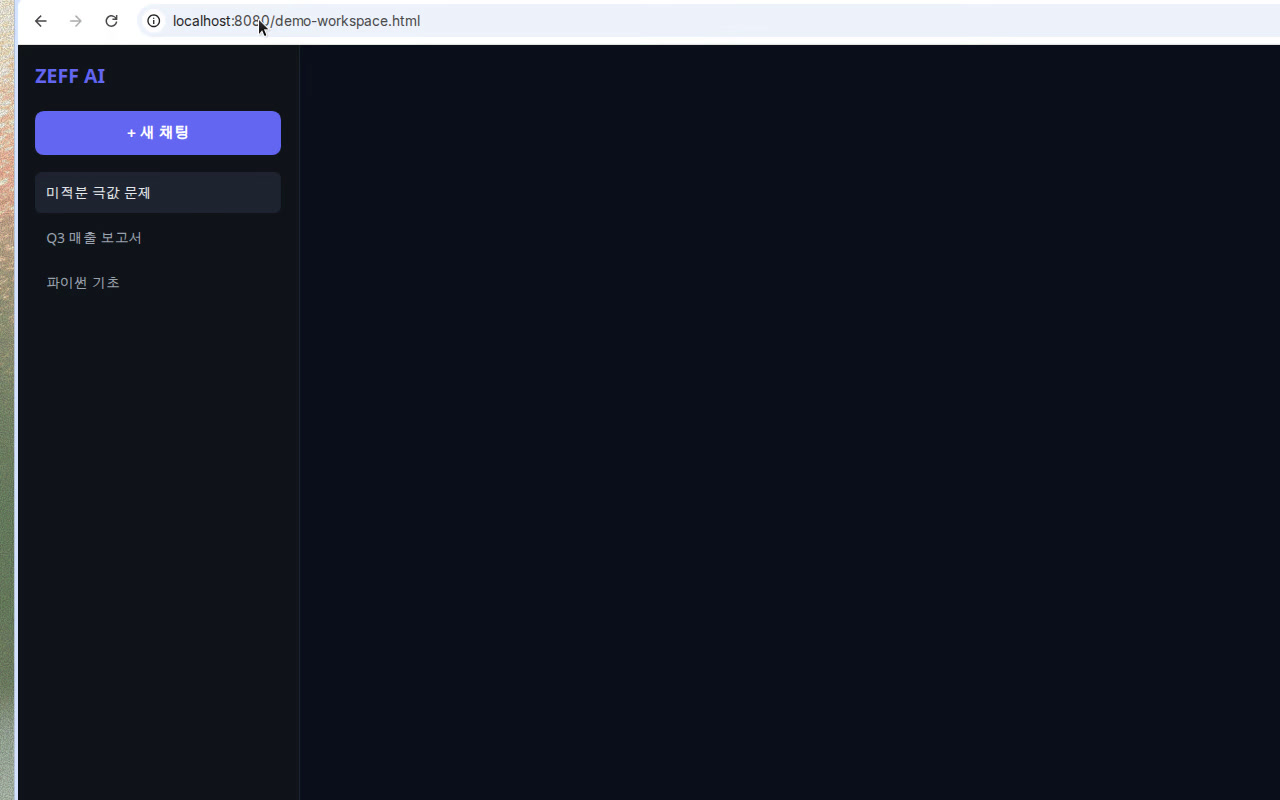
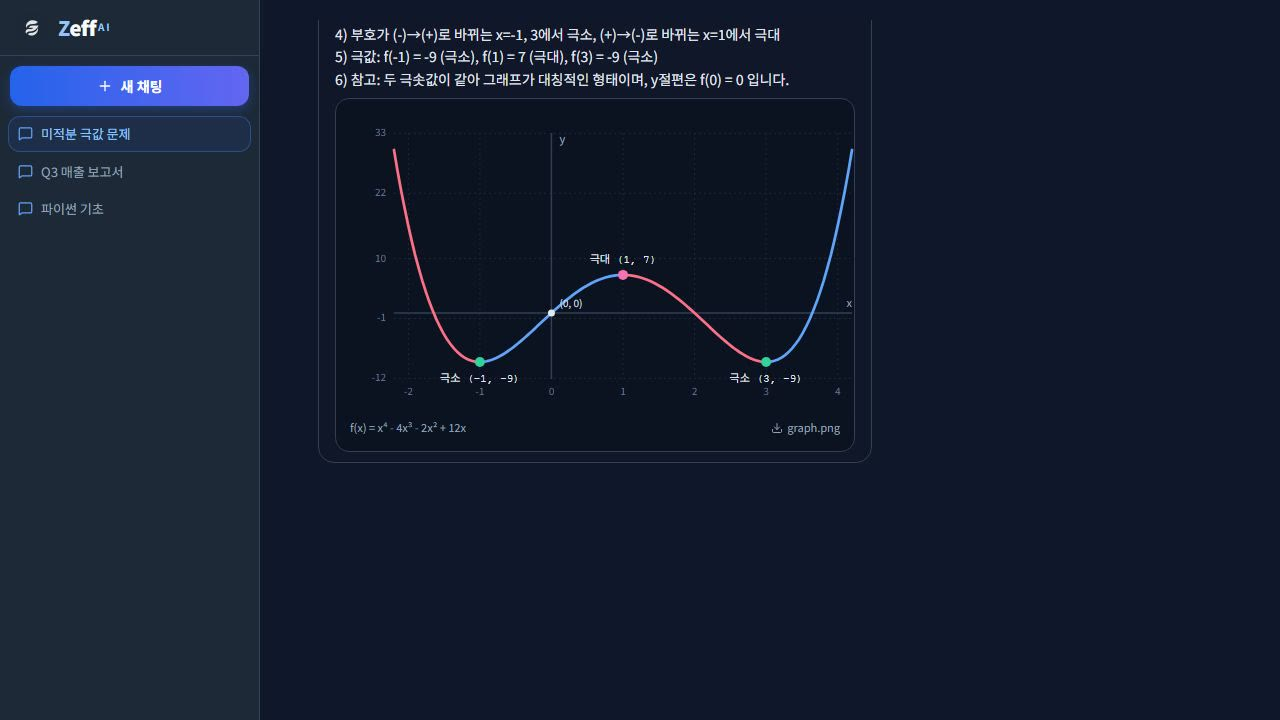
Replace landing demo videos and fix header/hero background seam
- workspace-math-chat.webm / workspace-artifact.webm were largely blank
  recordings; re-rendered both with Remotion using the real Zeff workspace
  UI (sidebar, gradient bubbles, graph with sign table, in-app PPT viewer).
- globals.css: scope .landing-shell > * to :not(header) so the fixed header
  isn't overridden by an unlayered rule, and derive header/gradient colors
  from one shared start value so scroll no longer jumps to a different hue.

diff --git a/src/app/globals.css b/src/app/globals.css
@@ -13,30 +13,32 @@
   color-scheme: light;
   --landing-bg: #ffffff;
   --landing-bg-soft: #f8fafc;
+  --landing-gradient-start: #f0f5ff;
   --landing-gradient: linear-gradient(
     180deg,
-    #f0f5ff 0%,
+    var(--landing-gradient-start) 0%,
     var(--landing-bg-soft) 45%,
     var(--landing-bg) 100%
   );
   --landing-glow: radial-gradient(ellipse 70% 50% at 50% 0%, rgba(37, 99, 235, 0.1), transparent 60%);
-  /* 헤더: 히어로 상단 soft blue wash와 이어지도록 (순수 흰색 띠 제거) */
-  --landing-header-bg: color-mix(in srgb, #eef4ff 72%, transparent);
-  --landing-header-bg-scrolled: color-mix(in srgb, #f5f8ff 78%, transparent);
+  /* 헤더: 그라데이션 상단 색과 같은 값에서 파생 — 스크롤해도 색상 자체는 안 바뀌고 진해지기만 함 */
+  --landing-header-bg: color-mix(in srgb, var(--landing-gradient-start) 72%, transparent);
+  --landing-header-bg-scrolled: color-mix(in srgb, var(--landing-gradient-start) 90%, transparent);
 }
 :root.dark {
   color-scheme: dark;
   --landing-bg: #0a1120;
   --landing-bg-soft: #0f172a;
+  --landing-gradient-start: #0c1528;
   --landing-gradient: linear-gradient(
     180deg,
-    #0c1528 0%,
+    var(--landing-gradient-start) 0%,
     var(--landing-bg-soft) 50%,
     var(--landing-bg) 100%
   );
   --landing-glow: radial-gradient(ellipse 70% 50% at 50% 0%, rgba(59, 130, 246, 0.14), transparent 60%);
-  --landing-header-bg: color-mix(in srgb, #0c1528 70%, transparent);
-  --landing-header-bg-scrolled: color-mix(in srgb, #0a1120 75%, transparent);
+  --landing-header-bg: color-mix(in srgb, var(--landing-gradient-start) 70%, transparent);
+  --landing-header-bg-scrolled: color-mix(in srgb, var(--landing-gradient-start) 88%, transparent);
 }
 
 body {
@@ -141,7 +143,7 @@ body {
   background: var(--landing-glow);
   z-index: 0;
 }
-.landing-shell > * {
+.landing-shell > *:not(header) {
   position: relative;
   z-index: 1;
 }